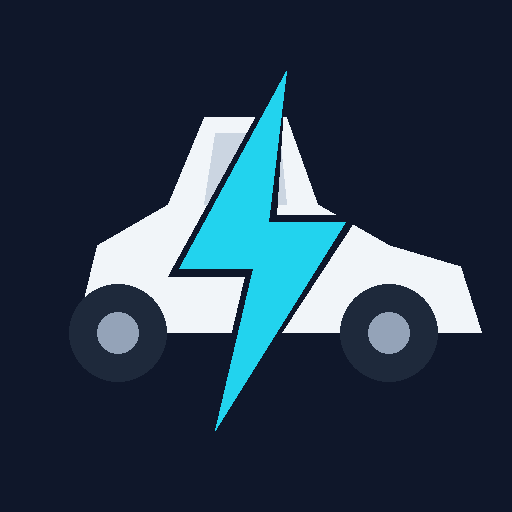
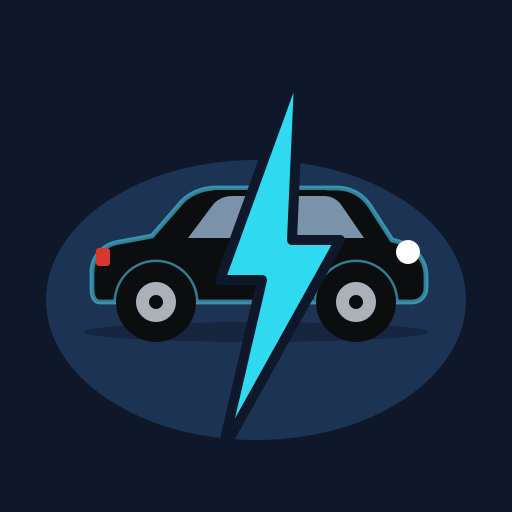
Nouvelle icône de l'appli : silhouette de la Kona noire
Remplace la voiture blanche générique par la silhouette de la Kona
(même dessin que la fiche véhicule), liseré cyan clair ajouté autour
pour qu'elle se détache du fond sombre -- vérifiée lisible à la vraie
taille d'icône (48 px) avant publication.

diff --git a/service-worker.js b/service-worker.js
@@ -6,11 +6,11 @@
 // préparées. Les autres services (TomTom, bornes, météo) ne passent pas ici :
 // TomTom interdit de stocker ses cartes, et les autres doivent être frais.
 
-const CACHE_NOM = "trajetve-v162";
+const CACHE_NOM = "trajetve-v163";
 // Empreinte des fichiers ci-dessous, vérifiée par les tests : les téléphones
 // ne reçoivent une modification que si ce fichier change. À chaque
 // publication : augmenter CACHE_NOM et recopier l'empreinte donnée par le test.
-const EMPREINTE_COQUILLE = "3abce8ec34823d77";
+const EMPREINTE_COQUILLE = "f10aa790687d2e77";
 const FICHIERS_COQUILLE = [
   "./",
   "./index.html",

diff --git a/index.html b/index.html
@@ -937,7 +937,7 @@
       <button id="ev-revoir-accueil-btn" class="ev-lien ev-lien-centre" type="button">❓ Revoir la présentation de l'appli</button>
       <div class="ev-hint ev-lien-centre" id="ev-mention-profil"></div>
       <details class="ev-sous-menu"><summary>⚖ Mentions légales</summary><p class="ev-hint" id="ev-mention-legale"></p></details>
-      <div class="ev-hint ev-lien-centre">Version 162 : km par jour et répartition par type de route dans Mes statistiques</div>
+      <div class="ev-hint ev-lien-centre">Version 163 : nouvelle icône (Kona noire)</div>
     </div>
   </div>
 </section>

diff --git a/actualiser.html b/actualiser.html
@@ -24,7 +24,7 @@
   <script>
     const status = document.getElementById("status");
     const retry = document.getElementById("retry");
-    const VERSION_ATTENDUE = 162;
+    const VERSION_ATTENDUE = 163;
 
     function versionEnCache(noms) {
       const versions = noms
